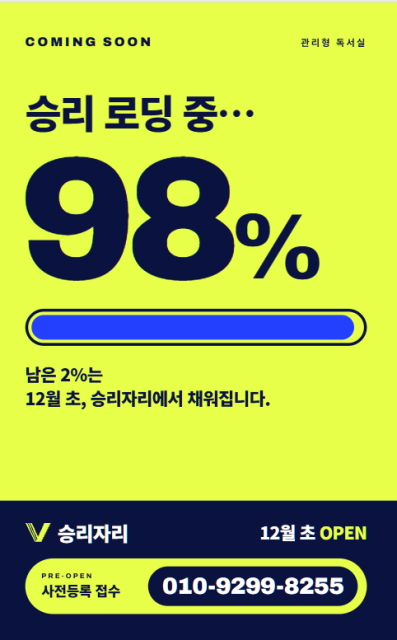
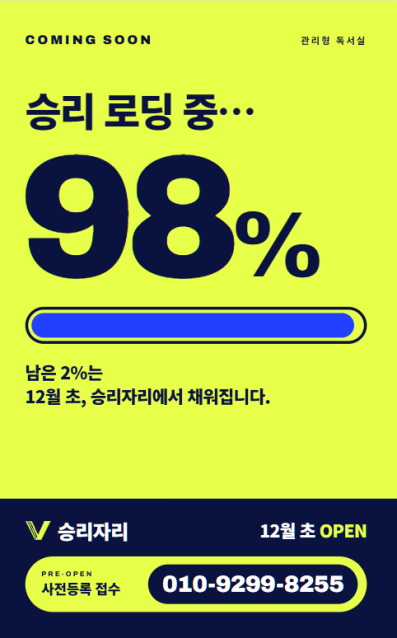
오픈 포스터 3장 크기·하단 띠 위치 맞춤

diff --git a/index.html b/index.html
@@ -123,11 +123,12 @@ button{font:inherit;cursor:pointer}
 @media (max-width:820px){.cats{grid-template-columns:1fr}}
 
 /* ---------- open posters ---------- */
-.posters{display:grid;grid-template-columns:repeat(3,1fr);gap:20px;margin-top:36px;align-items:start}
-.posters figure{border-radius:var(--radius);overflow:hidden;box-shadow:0 14px 34px rgba(17,24,60,.14)}
-.posters img{width:100%;height:auto}
-.posters .logo-fig{background:#0E1440;align-self:stretch;display:flex;align-items:center}
-@media (max-width:820px){.posters{grid-template-columns:1fr 1fr}.posters .logo-fig{grid-column:1/-1}}
+.posters{display:grid;grid-template-columns:repeat(3,1fr);gap:20px;margin-top:36px;align-items:stretch}
+.posters figure{border-radius:var(--radius);overflow:hidden;box-shadow:0 14px 34px rgba(17,24,60,.14);aspect-ratio:397/638;background:#0E1440}
+.posters img{width:100%;height:100%;object-fit:cover;object-position:center top}
+.posters .logo-fig{display:flex;align-items:center;justify-content:center}
+.posters .logo-fig img{height:auto;object-fit:contain}
+@media (max-width:820px){.posters{grid-template-columns:1fr 1fr}.posters .logo-fig{grid-column:1/-1;aspect-ratio:auto}}
 
 /* ---------- reading room intro ---------- */
 .intro{display:grid;grid-template-columns:1fr 1fr;gap:48px;align-items:center}
